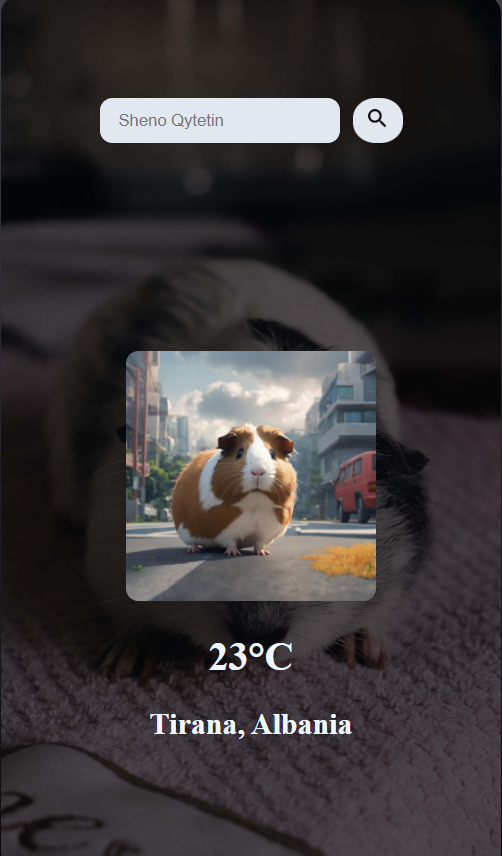
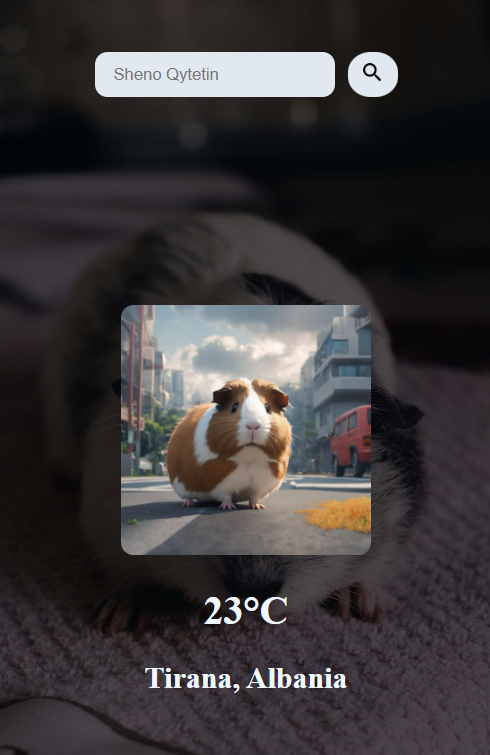
adding some of my projects

diff --git a/index.html b/index.html
@@ -7,7 +7,6 @@
     <title>Document</title>
   </head>
   <body>
-
     <!-- header -->
     <header class="main-header" id="home">
       <div class="text.container">
@@ -451,7 +450,11 @@
       </div>
     </main>
     <div class="hobby-text">
-      <p>Outisde of development, I enjoy <span class="hero">performing</span> , <span class="hero">cycling</span> and catching up on all things <span class="hero">Formula 1</span></p>
+      <p>
+        Outisde of development, I enjoy <span class="hero">performing</span> ,
+        <span class="hero">cycling</span> and catching up on all things
+        <span class="hero">Formula 1</span>
+      </p>
     </div>
 
     <!-- projects section -->
@@ -462,54 +465,98 @@
       </div>
     </section>
 
-   <article class="article-main-container">
-<div class="article-container">
-  <div class="article-left">
-    <h1>Game Shop</h1>
-    <p>Fake game shop with a shopping cart, Users can browse and search for any game with the help of the RAWG game database API.</p>
-    <div class="a-button"><a target="_blank" href="https://xhoikabashi.github.io/weather/"  id="btn-live-demo">Live Demo</a><a target="_blank" href="https://github.com/xhoiKabashi/weather/" id="btn-code">Code</a></div>
-  </div>
-  <div class="article-right">
-    <img class="img-projects" src="./img/weatherAPI.png" alt="">
-  </div>
-</div>
+    <article class="article-main-container">
+      <div class="article-container">
+        <div class="article-left">
+          <h1>Weather <span class="hero">App</span></h1>
+          <p>
+            Developing a simple weather website that utilizes HTML, CSS, and
+            JavaScript while integrating data from the WeatherAPI was a project
+            designed to be enjoyable. I found great satisfaction in creating
+            this website.
+          </p>
 
-    <div class="article-container">
-      <div class="article-left">
-        <h1>Game Shop</h1>
-        <p>Fake game shop with a shopping cart, Users can browse and search for any game with the help of the RAWG game database API.</p>
-        <div class="a-button"><a href="#" id="btn-live-demo">Live Demo</a><a href="#"  id="btn-code">Code</a></div>
-      </div>
-      <div class="article-right">
-        <img class="img-projects" src="./img/weatherAPI.png" alt="">
-      </div>
-    </div>
-    
-        <div class="article-container">
-          <div class="article-left">
-            <h1>Game Shop</h1>
-            <p>Fake game shop with a shopping cart, Users can browse and search for any game with the help of the RAWG game database API.</p>
-            <div class="a-button"><a href="#"  id="btn-live-demo">Live Demo</a><a href="#"  id="btn-code">Code</a></div>
-          </div>
-          <div class="article-right">
-            <img class="img-projects" src="./img/weatherAPI.png" alt="">
+          <div class="a-button">
+            <a
+              target="_blank"
+              href="https://xhoikabashi.github.io/weather/"
+              id="btn-live-demo"
+              >Live Demo</a
+            ><a
+              target="_blank"
+              href="https://github.com/xhoiKabashi/weather/"
+              id="btn-code"
+              >Code</a
+            >
           </div>
         </div>
-        
-           </article>
+        <div class="article-right">
+          <img class="img-projects" src="./img/weatherAPI.png" alt="" />
+        </div>
+      </div>
 
+      <div class="article-container">
+        <div class="article-left">
+          <h1>Baby Name Generator <span class="hero">App</span></h1>
+          <p>
+            Developed a baby name generator using HTML, CSS, and Vanila
+            JavaScript, featuring an extensive "database" of over 4,000
+            authentic Albanian names.
+          </p>
+          <div class="a-button">
+            <a
+              target="_blank"
+              href="https://xhoikabashi.github.io/namegenerate/"
+              id="btn-live-demo"
+              >Live Demo</a
+            ><a
+              target="_blank"
+              href="https://github.com/xhoiKabashi/namegenerate"
+              id="btn-code"
+              >Code</a
+            >
+          </div>
+        </div>
+        <div class="article-right">
+          <img class="img-projects" src="./img/name-gen.png" alt="" />
+        </div>
+      </div>
 
-    <section class="about-header" id="projects">
+      <div class="article-container">
+        <div class="article-left">
+          <h1>Rock Paper Scissors <span class="hero">Game</span></h1>
+          <p>
+            Created a rock-paper-scissors game using HTML, CSS, and JavaScript,
+            representing one of the initial projects that allowed me to explore
+            the versatility and capabilities of JavaScript in web development.
+          </p>
+          <div class="a-button">
+            <a
+              target="_blank"
+              href="https://xhoikabashi.github.io/RockPS/"
+              id="btn-live-demo"
+              >Live Demo</a
+            ><a
+              target="_blank"
+              href="https://github.com/xhoiKabashi/RockPS"
+              id="btn-code"
+              >Code</a
+            >
+          </div>
+        </div>
+        <div class="article-right">
+          <img class="img-projects" src="./img/rock-paper.png" alt="" />
+        </div>
+      </div>
+    </article>
+
+    <section class="about-header" id="contact">
       <div class="about-text">
         <fieldset><legend>Contact and Social</legend></fieldset>
       </div>
     </section>
 
-
-
-
     <!-- footer -->
     <footer class="footer">{xK} 2023</footer>
-
   </body>
 </html>

diff --git a/style.css b/style.css
@@ -213,8 +213,15 @@ legend {
   gap: 20px;
 }
 
+.article-left{
+
+margin: 0 50px;
+}
+
 .img-projects {
-  width: 200px;
+  width: 230px;
+  border: 3px solid white;
+  border-radius: 5px;
 }
 
 #btn-live-demo {
@@ -247,7 +254,7 @@ legend {
   .profile-bio p {
     font-size: 14px;
     text-align: center;
-    width: 100%;
+    width: 90%;
   }
 
   /* acrticle mobile styling */
@@ -259,6 +266,9 @@ legend {
     text-align: center;
     padding: 0 40px;
   }
+  .article-left{
+    margin: 0;
+    }
 }
 
 /* footer styling */
